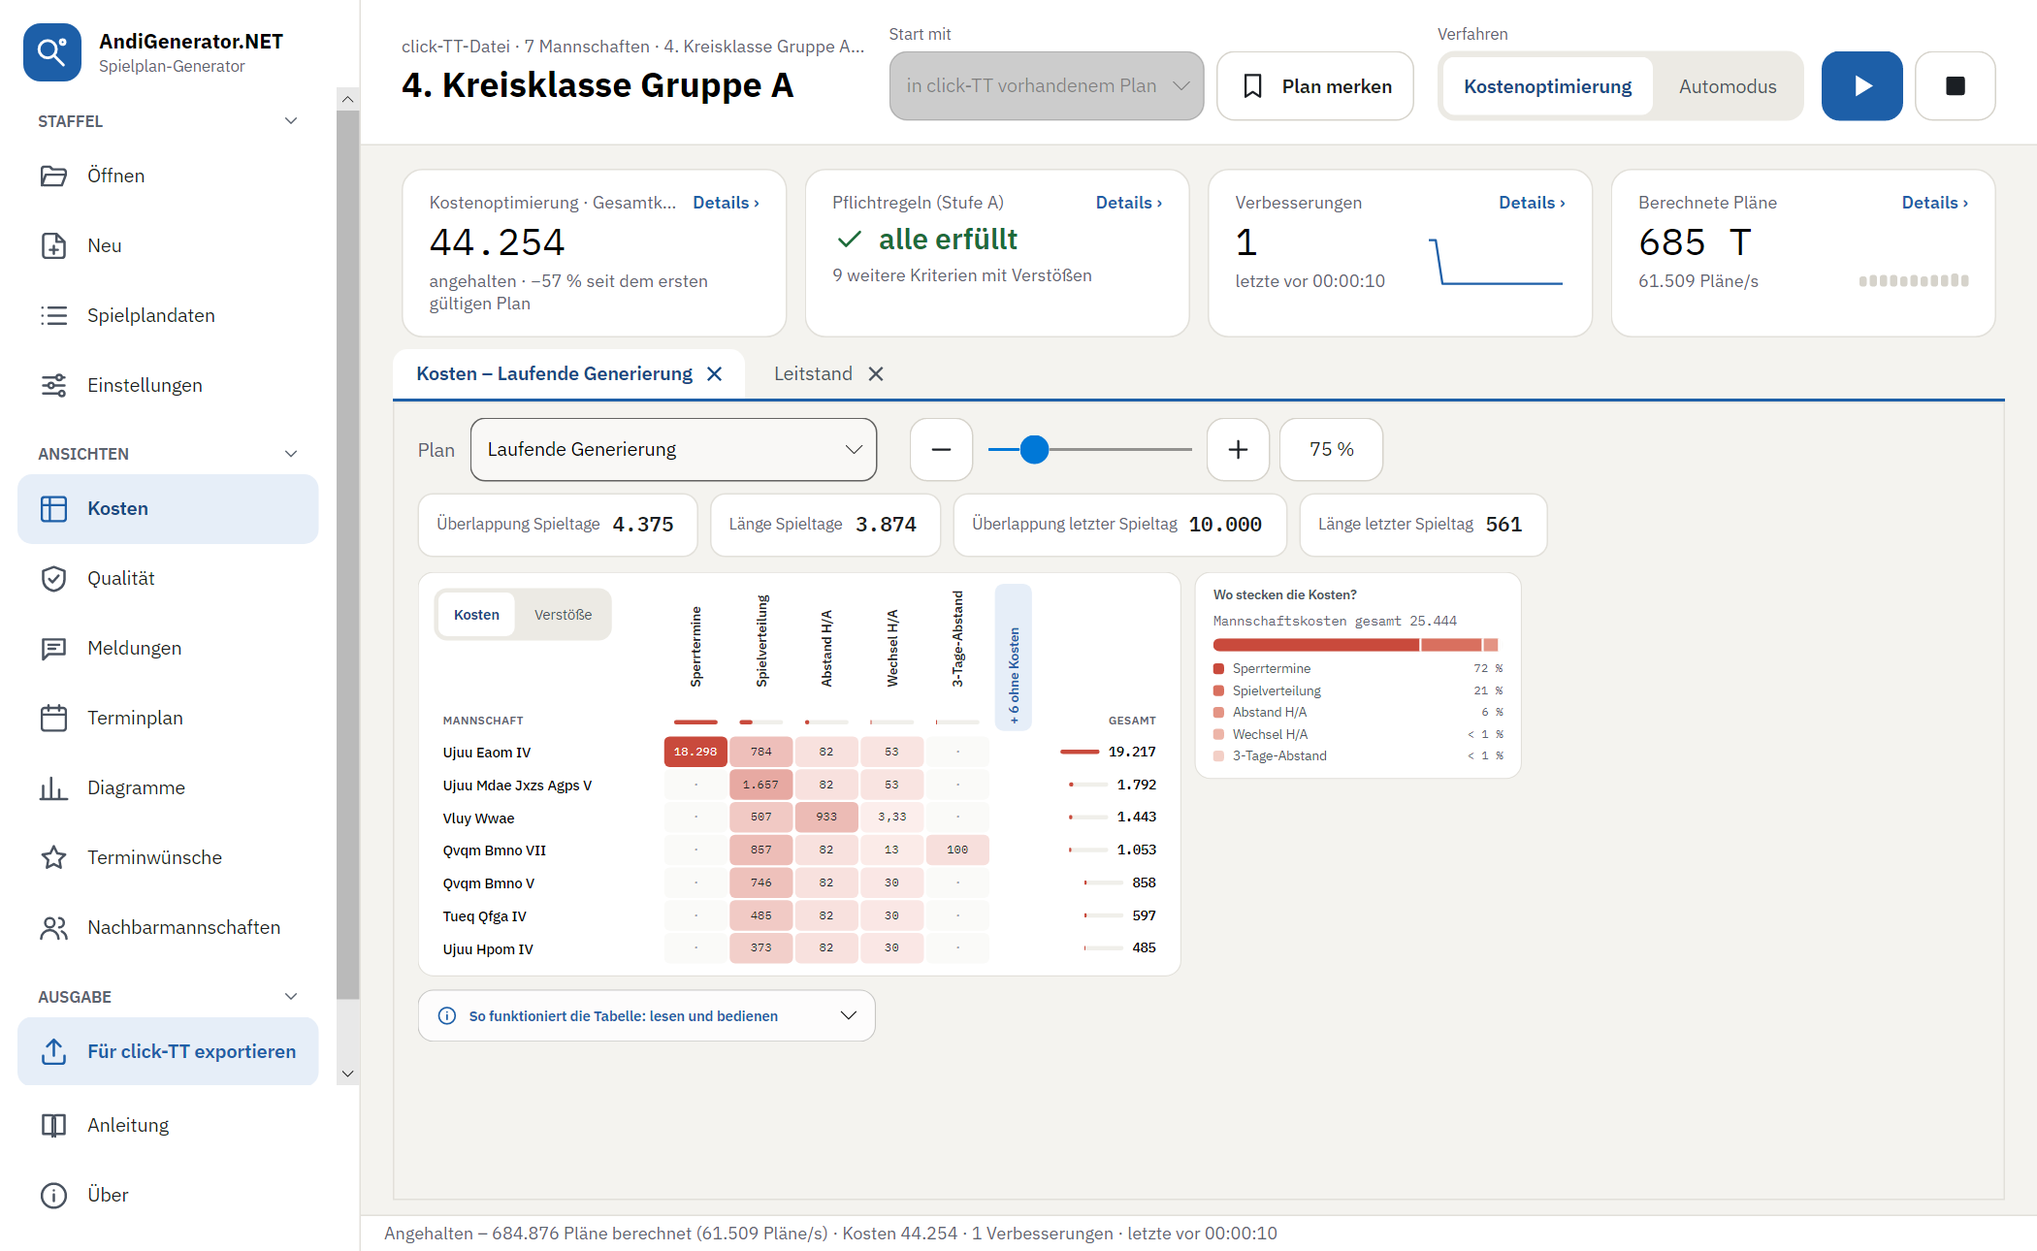
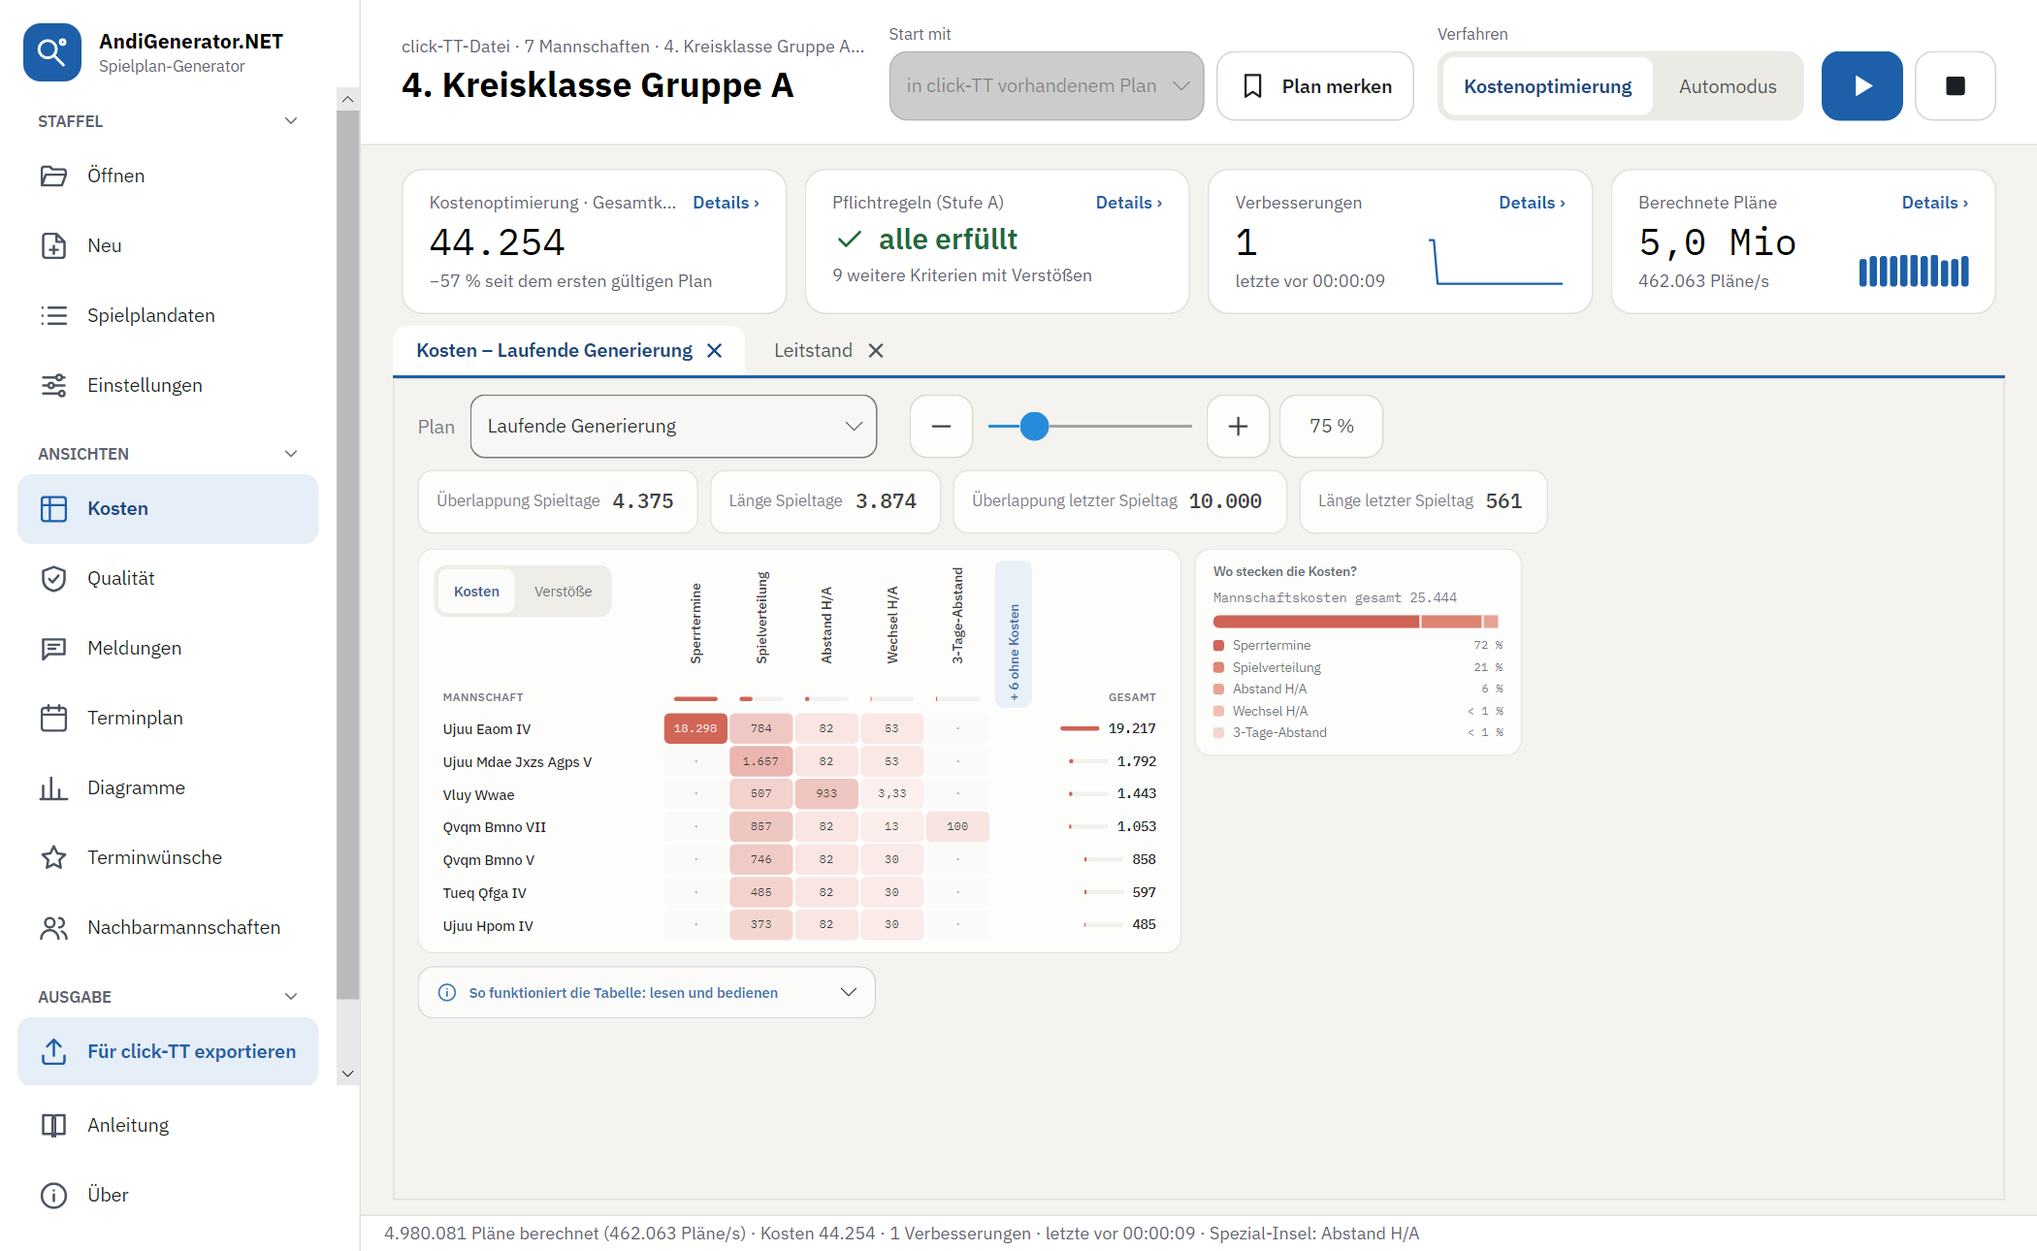
Version 0.9.7: Anleitung, Bildschirmfotos und CHANGELOG
Neue Bilder: Terminwünsche geladen, Prüfung der 60-km-Regel, Wochenende mit
Entfernungen (erfundene Terminwünsche an echten Orten). Meldung nach dem Laden
mit Ein- und Mehrzahl; Liste der Wochenspiel-Befunde passt sich der Breite an.
Anleitung.pdf neu erzeugt.

Claude-Session: https://claude.ai/code/session_01KPXzdFCpdtwdYcyQVmsnhH

diff --git a/tests/AndiGenerator.UI.Tests/Bildschirmfotos.cs b/tests/AndiGenerator.UI.Tests/Bildschirmfotos.cs
@@ -4,6 +4,8 @@
 
 using AndiGenerator.Application;
 using AndiGenerator.Domain.Optionen;
+using AndiGenerator.Domain.Stammdaten;
+using AndiGenerator.Persistence.Terminwuensche;
 using AndiGenerator.Presentation;
 using AndiGenerator.Presentation.Tests;
 using AndiGenerator.Rendering;
@@ -68,7 +70,9 @@ public sealed class Bildschirmfotos : IDisposable
         }
 
         Directory.CreateDirectory(ziel);
-        await EinrichtungAsync(ziel, StaffelKopieren("erststart", mitAenderungen: false));
+        IReadOnlyList<Vereinsmeldung> bericht = Terminmeldungen(
+            Plansitzung.Oeffnen(StaffelKopieren("bericht", mitAenderungen: false), Path.Combine(ordner, "basis-bericht")).Staffel.Mannschaften);
+        await EinrichtungAsync(ziel, StaffelKopieren("erststart", mitAenderungen: false), bericht);
         string datei = StaffelKopieren("daten", mitAenderungen: true);
         await HauptfensterAsync(ziel, datei);
         Dialoge(ziel, datei);
@@ -78,7 +82,7 @@ public sealed class Bildschirmfotos : IDisposable
     /// Startseite und Einrichtung: Die Einrichtung erscheint nur, wenn es etwas zu klären gibt – sicher beim ersten Öffnen
     /// einer click-TT-Datei (ohne <c>.modifications</c>).
     /// </summary>
-    private static async Task EinrichtungAsync(string ziel, string datei)
+    private static async Task EinrichtungAsync(string ziel, string datei, IReadOnlyList<Vereinsmeldung> bericht)
     {
         string basis = Path.Combine(Path.GetDirectoryName(datei)!, "..", "basis");
         var o = new TestOberflaeche { DateiZumOeffnen = datei, Sammeln = true };
@@ -104,12 +108,75 @@ public sealed class Bildschirmfotos : IDisposable
 
                 Oberflaeche.Zeichnen(fenster);
                 Foto(ziel, "26-daten-aus-clicktt", fenster, o);
+
+                // Terminwünsche (PDF): erfundene Spiellokale mit echten Postleitzahlen; die Seite rollt zur Meldung.
+                if (zusatz.Seite is { Seiten: [ZusatzdatenSeiteViewModel seite2] } dialog2)
+                {
+                    seite2.TerminwuenscheAnzeigen(dialog2.Bearbeitung.TerminwuenscheAbgleichen(bericht), "Terminmeldungen.pdf");
+                    Oberflaeche.Zeichnen(fenster);
+                    Foto(ziel, "27-terminwuensche-pdf", fenster, o);
+
+                    // Bis zur Liste „Sperre fehlt vermutlich“ mit dem Knopf rollen, die Kacheln darüber bleiben im Bild.
+                    Button setzen = fenster.GetVisualDescendants().OfType<Button>().First(b => Equals(b.Content, "Fehlende Sperren setzen…"));
+                    setzen.BringIntoView(new Rect(0, 0, setzen.Bounds.Width, setzen.Bounds.Height + 40));
+                    Oberflaeche.Zeichnen(fenster);
+                    Foto(ziel, "28-wochenspiele", fenster, o);
+                }
             }
         }
         finally
         {
             fenster.Close();
         }
+    }
+
+    /// <summary>
+    /// Bericht „Terminwünsche“ wie aus click-TT: je Verein erfundene Spiellokale an echten Orten (Postleitzahl und Ort, für
+    /// die Entfernungen), die Termine der Staffel, zwei Bemerkungen und ein absichtlicher Unterschied.
+    /// </summary>
+    private static List<Vereinsmeldung> Terminmeldungen(IReadOnlyList<Mannschaft> mannschaften)
+    {
+        (string Plz, string Ort)[] orte =
+        [
+            ("55116", "Mainz"), ("55232", "Alzey"), ("56068", "Koblenz"), ("67547", "Worms"), ("55543", "Bad Kreuznach"),
+            ("55218", "Ingelheim am Rhein"), ("55276", "Oppenheim"), ("55286", "Wörrstadt"), ("55411", "Bingen am Rhein"),
+            ("54290", "Trier"), ("55469", "Simmern"), ("55606", "Kirn"),
+        ];
+        string[] roemisch = [string.Empty, string.Empty, " II", " III", " IV", " V", " VI", " VII", " VIII", " IX", " X"];
+        List<string> vereine = mannschaften.Select(m => m.VereinsId).Distinct().ToList();
+        var meldungen = new List<Vereinsmeldung>();
+        for (int i = 0; i < mannschaften.Count; i++)
+        {
+            Mannschaft m = mannschaften[i];
+            (string plz, string ort) = orte[vereine.IndexOf(m.VereinsId) % orte.Length];
+            string halle = m.Heimspieltermine.Select(t => t.Halle).FirstOrDefault(h => h.Length > 0) ?? ("Sporthalle " + ort);
+            List<GemeldeterHeimtermin> termine = m.Heimspieltermine.Select(t => new GemeldeterHeimtermin(t.Zeitpunkt, halle, "2", "-")).ToList();
+            if (i == 0 && termine.Count > 1)
+            {
+                termine.RemoveAt(termine.Count - 1);
+            }
+
+            string bemerkung = (i % 4) switch
+            {
+                1 => "Bitte möglichst keine Spiele vor 19:30 Uhr.",
+                3 => "Heimspiele bevorzugt freitags.",
+                _ => string.Empty,
+            };
+            meldungen.Add(new Vereinsmeldung(
+                "Verein " + ort,
+                int.Parse(m.VereinsId, System.Globalization.CultureInfo.InvariantCulture),
+                "Erwachsene" + roemisch[Math.Min(m.Nummer, roemisch.Length - 1)],
+                new Dictionary<int, Spiellokaladresse>
+                {
+                    [1] = new(halle, "Schulstraße " + (i + 3).ToString(System.Globalization.CultureInfo.InvariantCulture), plz, ort),
+                    [2] = new("Turnhalle " + ort, "Am Sportplatz 1", plz, ort),
+                },
+                bemerkung,
+                termine,
+                m.Sperrtermine));
+        }
+
+        return meldungen;
     }
 
     /// <summary>Mannschaftsmeldung im Format von click-TT mit erfundenen TTR-Werten (je Mannschaft 4 oder 5 Stammspieler).</summary>
@@ -305,6 +372,13 @@ public sealed class Bildschirmfotos : IDisposable
             daten.MouseDown(punkt, MouseButton.Left);
             daten.MouseUp(punkt, MouseButton.Left);
             Oberflaeche.Zeichnen(daten);
+
+            // Wochenende (60-km-Regel) mit Entfernungen, nachdem die Terminwünsche übernommen sind.
+            a.Bearbeitung.TerminwuenscheUebernehmen(a.Bearbeitung.TerminwuenscheAbgleichen(Terminmeldungen(a.Sitzung.Staffel.Mannschaften)), "Terminmeldungen.pdf");
+            WochenendeSeiteViewModel wochenende = SeiteWaehlen<WochenendeSeiteViewModel>(daten, a.Dialog);
+            wochenende.Mannschaft = wochenende.Namen.First(n => n != wochenende.Mannschaft);
+            Oberflaeche.Zeichnen(daten);
+            Foto(ziel, "29-wochenende-entfernungen", daten, o);
         }
         finally
         {

diff --git a/src/AndiGenerator.Presentation/ZusatzdatenSeiteViewModel.cs b/src/AndiGenerator.Presentation/ZusatzdatenSeiteViewModel.cs
@@ -93,9 +93,10 @@ public sealed class ZusatzdatenSeiteViewModel : DatenSeiteViewModel
             }
 
             List<Mannschaftsabgleich> m = abgleich.Mannschaften.ToList();
+            static string Anzahl(int n, string eins, string mehr) => n.ToString(CultureInfo.InvariantCulture) + " " + (n == 1 ? eins : mehr);
             return string.Create(
                 CultureInfo.InvariantCulture,
-                $"„{pdfDatei}“ geladen: {m.Count(x => x.Gefunden)} von {m.Count} Mannschaften gefunden, {m.Sum(x => x.Abweichungen.Count)} Unterschiede, {m.Count(x => x.Bemerkung.Length > 0)} Bemerkungen. Einzelheiten und die Prüfung der Wochenspiele stehen darunter.");
+                $"„{pdfDatei}“ geladen: {m.Count(x => x.Gefunden)} von {m.Count} Mannschaften gefunden, {Anzahl(m.Sum(x => x.Abweichungen.Count), "Unterschied", "Unterschiede")}, {Anzahl(m.Count(x => x.Bemerkung.Length > 0), "Bemerkung", "Bemerkungen")}. Einzelheiten und die Prüfung der Wochenspiele stehen darunter.");
         }
     }
 
@@ -298,9 +299,10 @@ public sealed class ZusatzdatenSeiteViewModel : DatenSeiteViewModel
     /// <param name="pfad">Pfad der PDF-Datei.</param>
     public void TerminwuenscheLaden(string pfad)
     {
+        Terminwunschabgleich neu;
         try
         {
-            Abgleichen(Bearbeitung.TerminwuenscheAbgleichen(pfad), Path.GetFileName(pfad));
+            neu = Bearbeitung.TerminwuenscheAbgleichen(pfad);
         }
         catch (Exception ex) when (ex is FormatException or IOException or UnauthorizedAccessException)
         {
@@ -308,7 +310,17 @@ public sealed class ZusatzdatenSeiteViewModel : DatenSeiteViewModel
             return;
         }
 
+        TerminwuenscheAnzeigen(neu, Path.GetFileName(pfad));
+    }
+
+    /// <summary>Zeigt einen fertigen Abgleich an, als wäre der Bericht gerade geladen worden (auch für die Bildschirmfotos).</summary>
+    /// <param name="neu">Der Abgleich.</param>
+    /// <param name="dateiname">Name der PDF-Datei für die Anzeige.</param>
+    public void TerminwuenscheAnzeigen(Terminwunschabgleich neu, string dateiname)
+    {
+        ArgumentNullException.ThrowIfNull(neu);
         Fehler = string.Empty;
+        Abgleichen(neu, dateiname);
         AenderungMelden();
     }
 

diff --git a/Doku/ANLEITUNG.md b/Doku/ANLEITUNG.md
@@ -142,13 +142,17 @@ Jeder Punkt lässt sich direkt auf der Seite bearbeiten; mit **Auswahl übernehm
 
 **Daten aus click-TT ergänzen.** Hier gibt es zwei Dateien. Die **Mannschaftsmeldung**: In click-TT stehen bei den Downloads der Staffel die Dateien **Mannschaftsmeldung Vorrunde (csv)** bzw. **Rückrunde (csv)**. Nach **Mannschaftsmeldung laden…** zeigt das Programm je Mannschaft den Schnitt der TTR-Werte ihrer besten Stammspieler – bei Vierer-Mannschaften der besten vier, bei Sechser-Mannschaften der besten sechs; Reservespieler zählen nicht – und ordnet die Mannschaften danach, die stärkste zuerst. Mit dem Haken **Als Setzliste übernehmen** wird diese Reihenfolge die Setzliste (und die Setzliste eingeschaltet); im Punkt **Setzliste** können Sie sie danach wie gewohnt verschieben. Gelesen werden nur Mannschaft, Rang, Status und TTR-Wert – keine Namen oder Geburtsdaten.
 
+![Daten aus click-TT: Mannschaftsmeldung als Vorschlag für die Setzliste](Anleitung/Bilder/26-daten-aus-clicktt.png)
+
 Die **Terminwünsche** (PDF): In click-TT bei den Downloads der Staffel **Terminmeldungen (pdf)**. Der Bericht nennt die Spiellokale 1 bis 3 jedes Vereins mit Adresse. Nach **Terminwünsche laden…** setzt das Programm bei jedem Heimtermin die Nummer des Spiellokals, dessen Name zur Halle aus click-TT passt – die Nummern braucht der Export nach click-TT, und von Hand eingetragene Nummern bleiben unverändert. Außerdem merkt es sich die Adressen (für die Entfernungen zwischen den Hallen, siehe unten), zeigt die **Bemerkungen der Vereine** – Wünsche, die click-TT nicht strukturiert überträgt, etwa „alle Spiele nur samstags“ – und listet **Unterschiede** zwischen Bericht und Spielplandaten, z. B. Heim- oder Sperrtermine, die ein Verein nach dem Herunterladen der XML-Datei geändert hat oder die Sie selbst angepasst haben. Termine und Sperren selbst ändert der Bericht nicht. Kontaktdaten werden nicht gelesen.
 
-Nach dem Laden erscheint direkt unter dem jeweiligen Knopf eine grün markierte Meldung mit dem Wichtigsten (z. B. wie viele Mannschaften gefunden wurden und wie viele Unterschiede es gibt), und die Seite rollt dorthin; die Einzelheiten stehen darunter.
+Nach dem Laden erscheint direkt unter dem jeweiligen Knopf eine hervorgehobene Meldung mit grünem Haken und dem Wichtigsten (z. B. wie viele Mannschaften gefunden wurden und wie viele Unterschiede es gibt), und die Seite rollt dorthin; die Einzelheiten stehen darunter.
 
-![Daten aus click-TT](Anleitung/Bilder/26-daten-aus-clicktt.png)
+![Terminwünsche geladen: Meldung, Kennzahlen und eine Karte je Mannschaft](Anleitung/Bilder/27-terminwuensche-pdf.png)
 
 **Wochenspiele (60-km-Regel).** Sobald Hallenadressen bekannt sind, prüft die Seite die Liste „keine Auswärtsspiele unter der Woche“ (Spielplandaten, Seite [Wochenende (60-km-Regel)](#wochenende-60-km-regel)). Gemessen wird die **Luftlinie** zwischen den Hallen, aus Postleitzahl und Ort – deutschlandweit und ohne Internet. Die Prüfung läuft sofort auf der Seite, sobald Hallenadressen bekannt sind, und erneut, wenn Sie die Grenze ändern (Vorgabe 60 km); sie ändert nichts an den Daten. Für den Plan zählen allein die Häkchen auf der Seite *Wochenende (60-km-Regel)*. Geprüft wird ein Paar nur, wenn der Gastgeber Heimtermine **unter der Woche und am Wochenende** gemeldet hat – nur dann entscheidet die Sperre, wann gespielt wird. Unter der Woche heißt Montag bis Donnerstag, der Freitag nur, wenn er in den **Einstellungen** nicht zum Wochenende zählt. Hat in der Staffel niemand solche Termine (etwa in einer Verbandsliga, die nur samstags und sonntags spielt), sagt die Seite das, und es gibt nichts zu prüfen. **Sperre fehlt vermutlich:** Die Hallen liegen weiter auseinander als die Grenze, aber der Gast hat den Gastgeber nicht gesperrt. **Sperre vermutlich unnötig:** gesperrt, obwohl die Hallen höchstens so weit auseinander liegen. Sperrt ein Verein pauschal alle Gegner, ist das sein Wunsch – die Seite nennt ihn, bewertet ihn aber nicht. Da die Wettspielordnung kein festes Maß vorgibt, sind das zunächst nur Hinweise. Mit **Fehlende Sperren setzen…** setzen Sie nach einer einzigen Rückfrage (sie listet alle Treffer) alle fehlenden Sperren auf einmal; vorhandene bleiben. Danach zeigt das **Protokoll** auf der Seite Zeitpunkt, Grenze und je Sperre „Gast spielt bei Gastgeber nur am Wochenende (km)“. Gespeichert wird mit der Seite; **Standard** nimmt die gesetzten Sperren wieder zurück. Unnötige Sperren ändert das Programm nicht.
+
+![Wochenspiele – Prüfung der 60-km-Regel](Anleitung/Bilder/28-wochenspiele.png)
 
 ### 3.4 Terminwünsche kontrollieren
 
@@ -550,6 +554,8 @@ dazu die einzelnen **Begegnungen** dieser Mannschaft.
 Ist die Anfahrt zu einem Gegner zu weit, sollen die Spiele gegen ihn am Wochenende stattfinden. Hier legen Sie fest, für welche Paarungen das gilt. Ob der Freitag zum Wochenende zählt, stellen Sie in den **Einstellungen** ein.
 
 Sind die Terminwünsche (PDF) übernommen (siehe [3.3](#33-die-staffel-einrichten)), steht neben jedem Gegner die Entfernung der Hallen in Luftlinie. Die Marke **weit** zeigt einen Gegner über 60 km ohne Häkchen, der auch unter der Woche Heimspiele hat; **nah** ein Häkchen bei höchstens 60 km. Beides sind nur Hinweise. Unter der Liste steht die Summe der Entfernungen zu allen Gegnern (je einfache Strecke).
+
+![Wochenende (60-km-Regel) mit Entfernungen](Anleitung/Bilder/29-wochenende-entfernungen.png)
 
 ### Spielfreie Tage
 

diff --git a/CHANGELOG.md b/CHANGELOG.md
@@ -2,10 +2,19 @@
 
 Was sich von Version zu Version für Anwender ändert. Die Einzelheiten stehen in der [Anleitung](Doku/ANLEITUNG.md), die technische Geschichte im [Migrationsplan](Doku/MIGRATIONSPLAN.md).
 
-## Unveröffentlicht
+## 0.9.7 (12.10.2026)
+
+### Neu
+
+- **Daten aus click-TT ergänzen** (erster Punkt der Einrichtung): Die **Mannschaftsmeldung** (CSV) ergibt aus den TTR-Werten der Stammspieler einen Vorschlag für die Setzliste. Der Bericht **Terminwünsche** (PDF) liefert die Spiellokal-Nummern für den Export, die Adressen der Hallen und die Bemerkungen der Vereine und zeigt Unterschiede zu den Spielplandaten. Erledigt ist der Punkt, wenn beide Dateien übernommen sind – auch in verschiedenen Sitzungen. Die Einrichtung lässt sich abbrechen.
+- **Prüfung der 60-km-Regel:** Entfernung der Hallen in Luftlinie (aus Postleitzahl und Ort, deutschlandweit und ohne Internet, oder aus der GPS-Angabe des Vereins). Hinweise „Sperre fehlt vermutlich“ und „Sperre vermutlich unnötig“ für Gastgeber mit Heimterminen unter der Woche und am Wochenende; fehlende Sperren lassen sich mit einer Rückfrage setzen, ein Protokoll zeigt welche.
+- Seite **Wochenende (60-km-Regel)**: Entfernung je Gegner, Marken „weit“ und „nah“ und die Summe aller Entfernungen.
+- **Hallenbelegung nach Hallennamen:** Ein Heimspiel einer Nachbarmannschaft in einer anderen Halle belegt die eigene Halle nicht mehr.
 
 ### Geändert
 
+- Nach dem Laden einer Datei erscheint eine deutlich sichtbare Meldung direkt unter dem Knopf.
+- In den Kacheln *Verbesserungen* und *Berechnete Pläne* steht „Details ›“ wie in der Ergebniskachel oben rechts.
 - **Download einfacher:** Oben im Release steht, welche Datei man für welchen Rechner braucht; README und Anleitung haben dieselbe Tabelle mit festen Links auf die jeweils neueste Version. Dafür tragen die Dateien für Mac und Linux keine Versionsnummer mehr im Namen.
 
 ## 0.9.6 (12.10.2026)

diff --git a/tools/anleitung/README.md b/tools/anleitung/README.md
@@ -22,6 +22,6 @@ set ANDIGEN_BILDER=%CD%\Doku\Anleitung\Bilder
 dotnet test tests\AndiGenerator.UI.Tests -c Release --filter "FullyQualifiedName~Bildschirmfotos"
 ```
 
-Der Ablauf: Startseite, Einrichtung, Kostenoptimierung ab dem click-TT-Plan (8 s, dann Pause) mit allen Ansichten, Wechsel in den Automodus bis zur ersten Stufe (Ergebniskachel, Qualität), mit Leitstand (Kostenoptimierung und Automodus), Verlauf und der Rückfrage beim Sichern; danach Spielplandaten (spielfreie Tage, Setzliste, Wunschtermine), Gewichtung, Druckauswahl und Wunschtermin. Kommt ein Bild hinzu oder ändert sich die Oberfläche so, dass ein Schritt nicht mehr passt, wird der Test angepasst; danach die PDF wie oben neu erzeugen. Weil Kosten- und Automodus kurz echt rechnen, unterscheiden sich die Zahlen von Lauf zu Lauf leicht.
+Der Ablauf: Startseite, Einrichtung (mit erfundener Mannschaftsmeldung und erfundenen Terminwünschen an echten Orten für die Prüfung der 60-km-Regel), Kostenoptimierung ab dem click-TT-Plan (8 s, dann Pause) mit allen Ansichten, Wechsel in den Automodus bis zur ersten Stufe (Ergebniskachel, Qualität), mit Leitstand (Kostenoptimierung und Automodus), Verlauf und der Rückfrage beim Sichern; danach Spielplandaten (spielfreie Tage, Setzliste, Wunschtermine, Wochenende mit Entfernungen), Gewichtung, Druckauswahl und Wunschtermin. Kommt ein Bild hinzu oder ändert sich die Oberfläche so, dass ein Schritt nicht mehr passt, wird der Test angepasst; danach die PDF wie oben neu erzeugen. Weil Kosten- und Automodus kurz echt rechnen, unterscheiden sich die Zahlen von Lauf zu Lauf leicht.
 
 Einzelne Fenster lassen sich weiterhin von Hand aufnehmen: Mit `starten.cmd` gestartet, speichert **Strg+Umschalt+F12** das aktive Fenster (auch Dialoge) als PNG im Ordner `Bildschirmfotos` (nicht im Repository). Dafür nur anonymisierte Testdaten (`testdaten/`) verwenden und persönliche Pfade unkenntlich machen.
